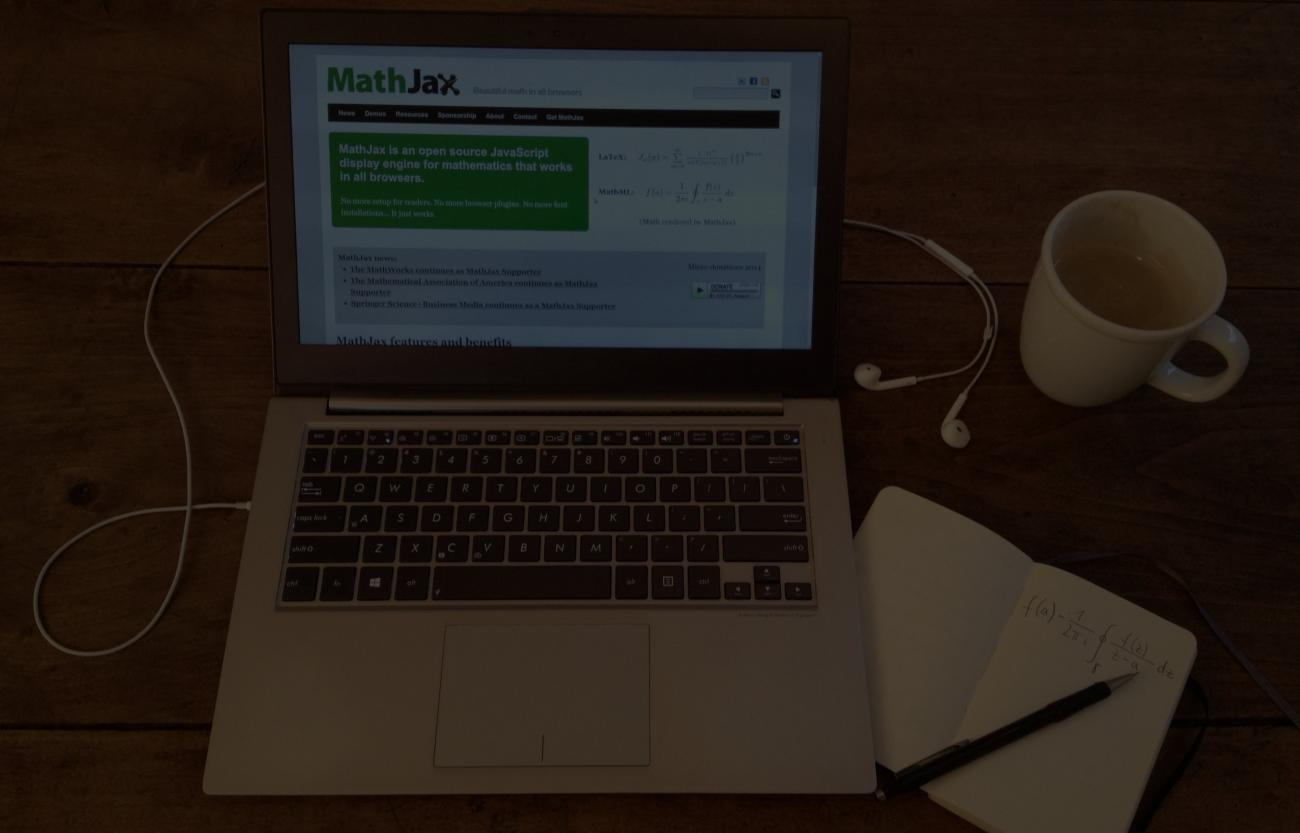
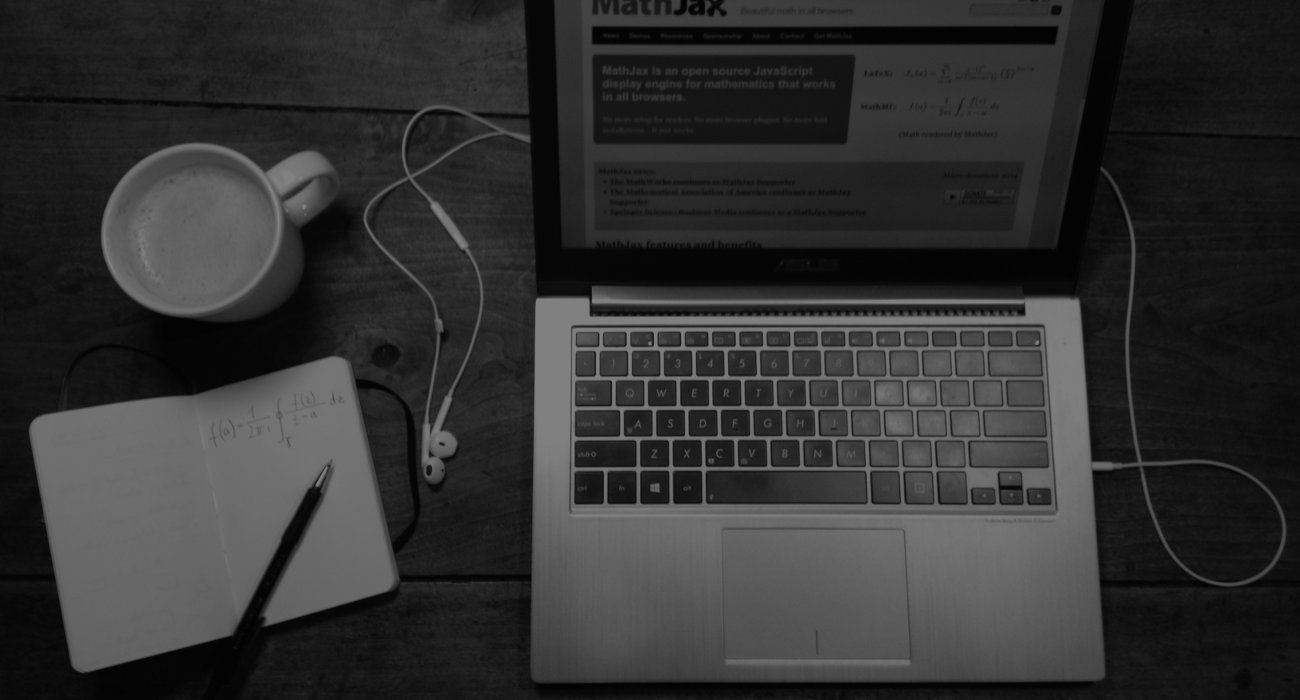
more hero images

diff --git a/css/main.css b/css/main.css
@@ -4,7 +4,7 @@
   }*/
 
 #hero {
-  background: #332f30 url(img/MJ-hero.jpg) 0 0 no-repeat;
+  background: #332f30 url(/img/MJ-hero-2.jpg) 0 0 no-repeat;
   background-size: cover;
   color: white;
   text-align: center;
